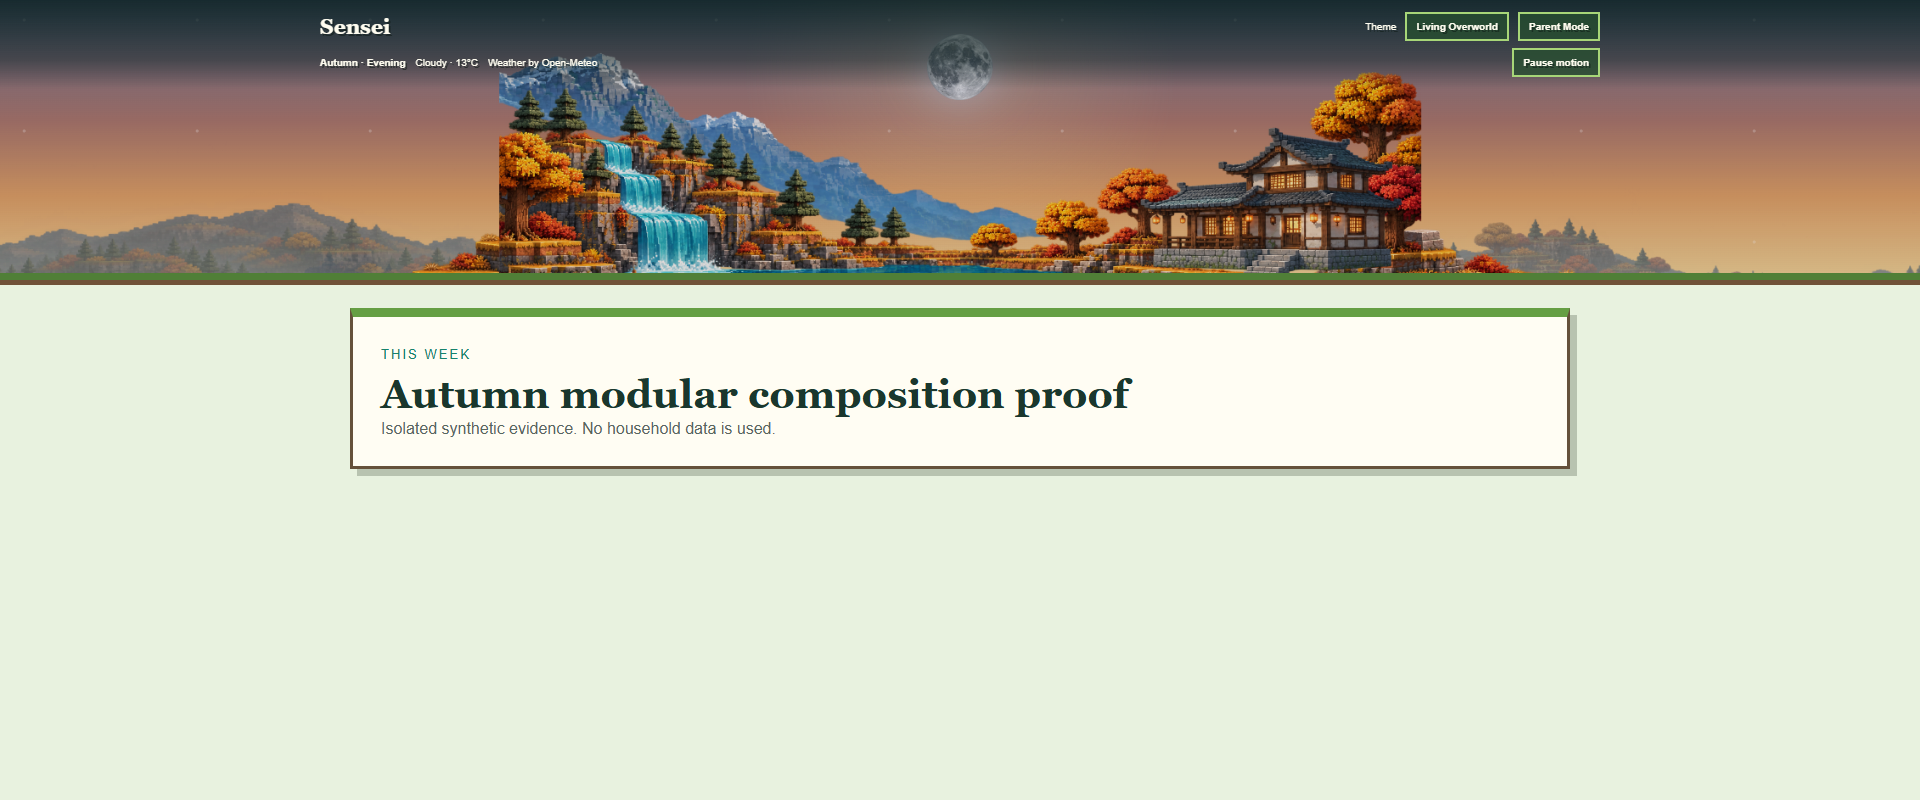
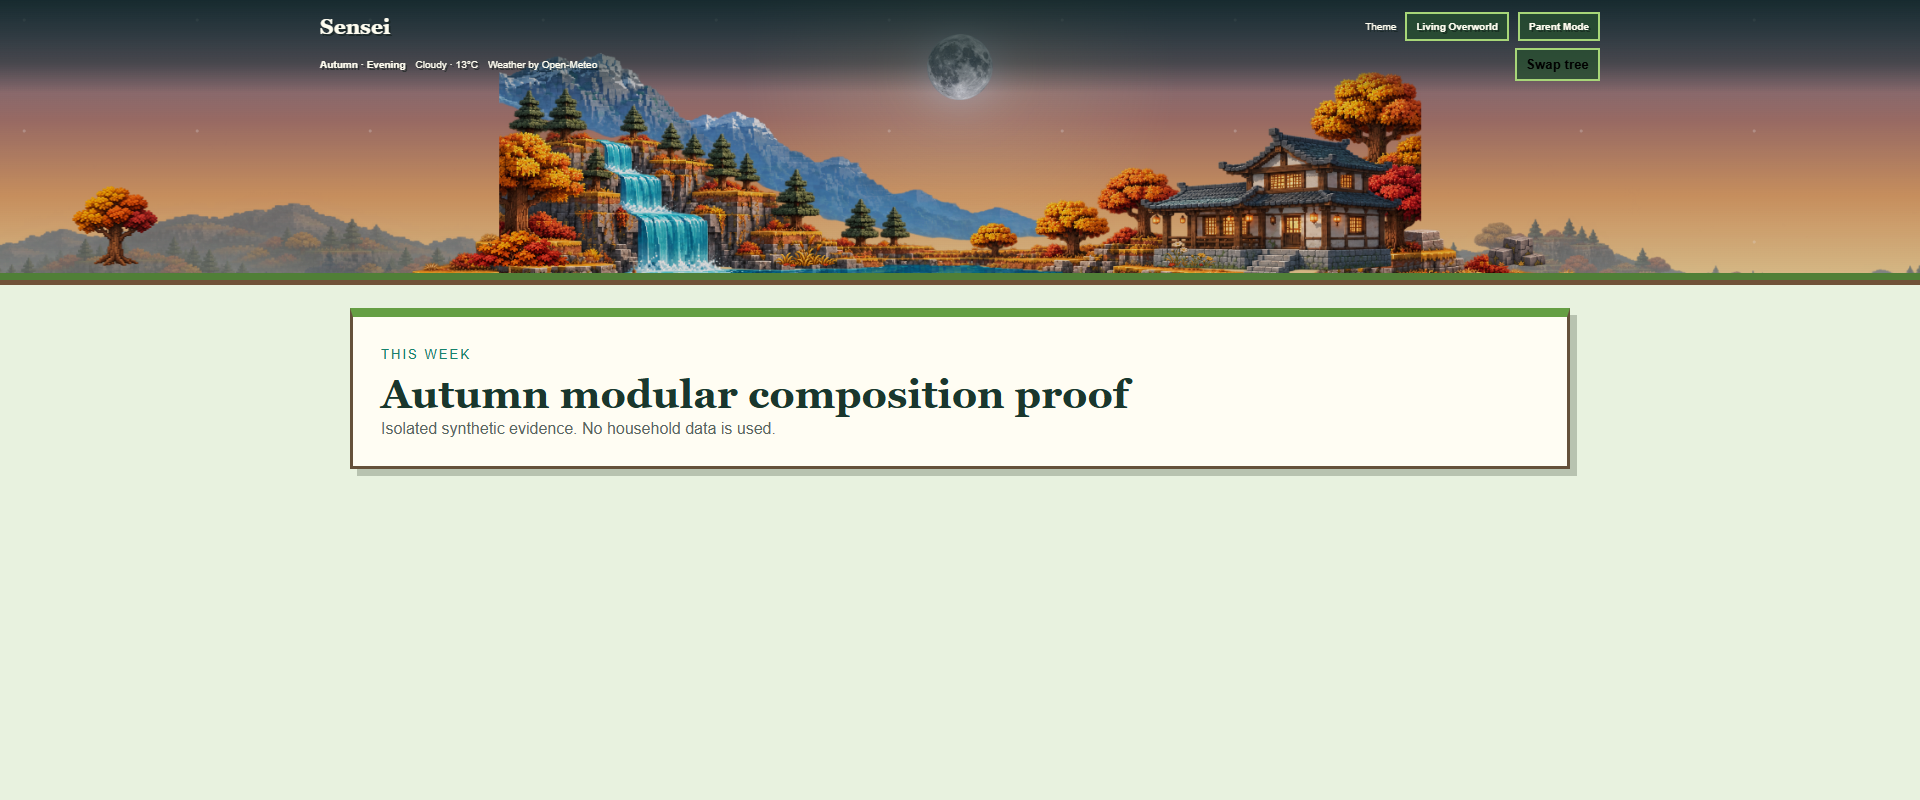
feat: add autumn modular environment objects

diff --git a/docs/prototypes/living-overworld-autumn-modular.html b/docs/prototypes/living-overworld-autumn-modular.html
@@ -42,6 +42,7 @@
     .water { z-index: 6; }
     .retreat { z-index: 7; }
     .foreground { z-index: 10; }
+    .object { position: absolute; z-index: 9; bottom: 5px; left: var(--x); height: var(--h); width: auto; translate: -50% 0; pointer-events: none; }
     .lighting { position: absolute; inset: 0; z-index: 12; pointer-events: none; background: linear-gradient(180deg, rgba(17,24,52,.15), rgba(79,35,24,.16)); mix-blend-mode: multiply; }
     .header { position: absolute; z-index: 20; inset: 0 0 auto; min-height: 82px; padding: 12px max(18px, calc((100vw - 1280px) / 2)); background: linear-gradient(180deg, rgba(9,29,27,.82), rgba(9,29,27,.44) 68%, transparent); text-shadow: 2px 2px rgba(12,26,20,.55); }
     .header-main, .header-status { display: flex; align-items: center; gap: 10px; }
@@ -65,6 +66,7 @@
       .control { padding: 6px; font-size: 9px; }
       .header-status { margin-top: 5px; font-size: 9px; }
       .header-status span:nth-child(2), .header-status span:nth-child(3) { display: none; }
+      .object { height: calc(var(--h) * .78); }
       main { margin: 18px 10px; padding: 20px; }
       main h1 { font-size: 29px; }
     }
@@ -89,14 +91,30 @@
     <div class="core core-terrain"><img src="../../public/assets/living-overworld/seasons/autumn/terrain.png" alt=""></div>
     <div class="core water"><img src="../../public/assets/living-overworld/water.png" alt=""></div>
     <div class="core retreat"><img src="../../public/assets/living-overworld/retreat.png" alt=""></div>
+    <img id="proof-tree" class="object" data-world-object="autumn-tree-left" style="--x:6%;--h:84px" src="../../public/assets/living-overworld/autumn-modular/objects/tree.png" alt="">
+    <img class="object" data-world-object="autumn-bush-left" style="--x:27%;--h:39px" src="../../public/assets/living-overworld/autumn-modular/objects/bush.png" alt="">
+    <img class="object" data-world-object="autumn-grass-center" style="--x:42%;--h:34px" src="../../public/assets/living-overworld/autumn-modular/objects/grass.png" alt="">
+    <img class="object" data-world-object="autumn-flowers-center" style="--x:62%;--h:28px" src="../../public/assets/living-overworld/autumn-modular/objects/flowers.png" alt="">
+    <img class="object" data-world-object="autumn-rock-right" style="--x:79%;--h:34px" src="../../public/assets/living-overworld/autumn-modular/objects/rock.png" alt="">
     <div class="core foreground"><img src="../../public/assets/living-overworld/seasons/autumn/foreground-vegetation.png" alt=""></div>
 
     <div class="lighting"></div>
     <header class="header">
       <div class="header-main"><span class="brand">Sensei</span><div class="header-actions"><span>Theme</span><span class="control">Living Overworld</span><span class="control">Parent Mode</span></div></div>
-      <div class="header-status"><strong>Autumn · Evening</strong><span>Cloudy · 13°C</span><span>Weather by Open-Meteo</span><span class="control motion">Pause motion</span></div>
+      <div class="header-status"><strong>Autumn · Evening</strong><span>Cloudy · 13°C</span><span>Weather by Open-Meteo</span><button id="swap-tree" class="control motion" type="button">Swap tree</button></div>
     </header>
   </section>
   <main><small>This week</small><h1>Autumn modular composition proof</h1><p>Isolated synthetic evidence. No household data is used.</p></main>
+  <script>
+    const tree = document.getElementById('proof-tree');
+    const button = document.getElementById('swap-tree');
+    const amber = '../../public/assets/living-overworld/autumn-modular/objects/tree.png';
+    const red = '../../public/assets/living-overworld/autumn-modular/objects/tree-red.png';
+    button.addEventListener('click', () => {
+      const useRed = tree.getAttribute('src') === amber;
+      tree.setAttribute('src', useRed ? red : amber);
+      button.textContent = useRed ? 'Restore tree' : 'Swap tree';
+    });
+  </script>
 </body>
 </html>

diff --git a/docs/LIVING_OVERWORLD_AUTUMN_MODULAR_HANDOFF.md b/docs/LIVING_OVERWORLD_AUTUMN_MODULAR_HANDOFF.md
@@ -23,6 +23,15 @@ Branch: `feature/living-overworld-autumn-modular`
 - Restored visible sky and centered celestial placement.
 - Kept weather status and motion control inside the transparent header in the proof.
 
+### Checkpoint C — environmental objects
+
+- Created independent amber tree, red tree, bush, grass, flowers, and rock assets with transparent backgrounds.
+- Preserved the untouched generated masters alongside cleaned browser assets.
+- Added stable IDs, normalized positions, scales, layers, and interaction anchors to `world.json`.
+- Placed the objects beneath the authored foreground so they participate in scene depth.
+- Demonstrated replacing the amber tree with the red variant without changing terrain or other scene layers.
+- Re-ran the 390, 1100, 1920, and 32:9 composition evidence with the object layer enabled.
+
 ## Evidence
 
 | Viewport | Evidence |
@@ -31,6 +40,7 @@ Branch: `feature/living-overworld-autumn-modular`
 | Desktop 1100 px | ![Autumn modular 1100](assets/screenshots/living-overworld-autumn-modular-desktop-1100.png) |
 | Desktop 1920 px | ![Autumn modular 1920](assets/screenshots/living-overworld-autumn-modular-desktop-1920.png) |
 | Ultrawide 2560 × 720 | ![Autumn modular 32:9](assets/screenshots/living-overworld-autumn-modular-ultrawide-32x9.png) |
+| Independent tree replacement | ![Autumn modular replacement proof](assets/screenshots/living-overworld-autumn-modular-object-swap.png) |
 
 ## Verification
 
@@ -40,6 +50,8 @@ Branch: `feature/living-overworld-autumn-modular`
 - Landmark proportions are stable across desktop widths.
 - Mobile omits peripheral extensions and preserves the waterfall, lake, mountains, and retreat.
 - Four new proof PNGs total 2.61 MB encoded and approximately 24 MB decoded.
+- Six cleaned object PNGs have transparent backgrounds and stable baselines; their source masters remain available for future non-destructive refinement.
+- The tree replacement changes only one asset source and leaves the terrain pixels unchanged.
 - No runtime code, database, chores, allowance, authentication, weather behavior, or creature behavior changed.
 
 ## Known issues
@@ -47,15 +59,14 @@ Branch: `feature/living-overworld-autumn-modular`
 - PNG delivery remains unoptimized; no existing WebP encoder was available.
 - The isolated proof uses autumn/evening presentation only.
 - Existing creatures still use viewport percentages because runtime integration has not begun.
-- Environmental object assets and object replacement proof remain incomplete.
+- The generated objects are production candidates, not yet runtime-integrated or Product Owner accepted.
 - The proof must not be interpreted as production integration or visual acceptance.
 
 ## Next exact step
 
-Complete Checkpoint C:
+Complete Checkpoint D on this branch:
 
-1. Produce a small transparent autumn object set: tree, bush, grass, flowers, and rock.
-2. Assign stable IDs, world positions, scales, interaction anchors, and occlusion layers.
-3. Add the objects to the isolated proof.
-4. Demonstrate replacing one tree without changing terrain.
-5. Recheck all four viewport classes before beginning runtime integration.
+1. Teach the current autumn `LivingOverworldScene` to consume the accepted modular manifest while retaining its authored-core fallback.
+2. Keep spring, summer, winter, weather, motion preferences, creatures, chores, and allowance behavior unchanged.
+3. Add bounded asset-loading, fallback, responsive, reduced-motion, and existing-theme regression coverage.
+4. Capture runtime desktop and mobile evidence before any merge, push, deployment, or release decision.

diff --git a/public/assets/living-overworld/autumn-modular/README.md b/public/assets/living-overworld/autumn-modular/README.md
@@ -1,6 +1,6 @@
 # Living Overworld autumn modular foundation
 
-Checkpoint status: **B — autumn terrain proof established**.
+Checkpoint status: **C — autumn terrain and environmental-object proof established**.
 
 This directory records the canonical geometry for the autumn modular-world proof. It does not replace the current runtime scene yet.
 
@@ -38,14 +38,29 @@ All four proof assets are 2172 × 724 transparent PNGs. Their combined encoded s
 
 Evidence is captured at 390, 1100, 1920, and 2560 × 720 (32:9) under `docs/assets/screenshots/`.
 
+## Checkpoint C environmental objects
+
+The proof now includes independently replaceable transparent objects:
+
+- Amber and red tree variants.
+- Bush.
+- Grass cluster.
+- Flower cluster.
+- Rock.
+
+Clean browser assets live in `objects/`; their unmodified generated masters remain in `source-masters/`. A deterministic alpha cleanup removed only pixels below alpha 32 and cropped transparent margins without repainting the assets.
+
+`world.json` gives every object a stable ID, normalized position, scale, layer, and interaction anchor. The isolated proof's **Swap tree** control changes only the tree asset source, demonstrating replacement without changing terrain. The replacement state is recorded in `docs/assets/screenshots/living-overworld-autumn-modular-object-swap.png`.
+
 ## Current limitations
 
 - The authored core terrain still contains unique trees and landforms and cannot itself be tiled.
 - The existing lake remains central and does not need an extension.
 - The current percentage-based creature placement has not been changed.
 - No runtime code consumes this manifest yet.
-- Environmental object assets have not been created; Checkpoint C is next.
+- The object set is intentionally small and autumn-only.
+- Object coordinates have been proved in the isolated composition but are not consumed by the runtime.
 
 ## Next exact step
 
-Create a small transparent autumn object set containing a tree, bush, grass cluster, flower cluster, and rock. Add stable object IDs and interaction anchors to `world.json`, then demonstrate replacement and foreground/background placement in the isolated proof before integrating anything into `LivingOverworldScene`.
+Begin Checkpoint D by mapping the accepted manifest and composition into the existing `LivingOverworldScene` for autumn only. Preserve all other seasons and runtime behavior, retain the authored core as the fallback, and add bounded loading/failure and responsive tests before changing any release or deployment state.
